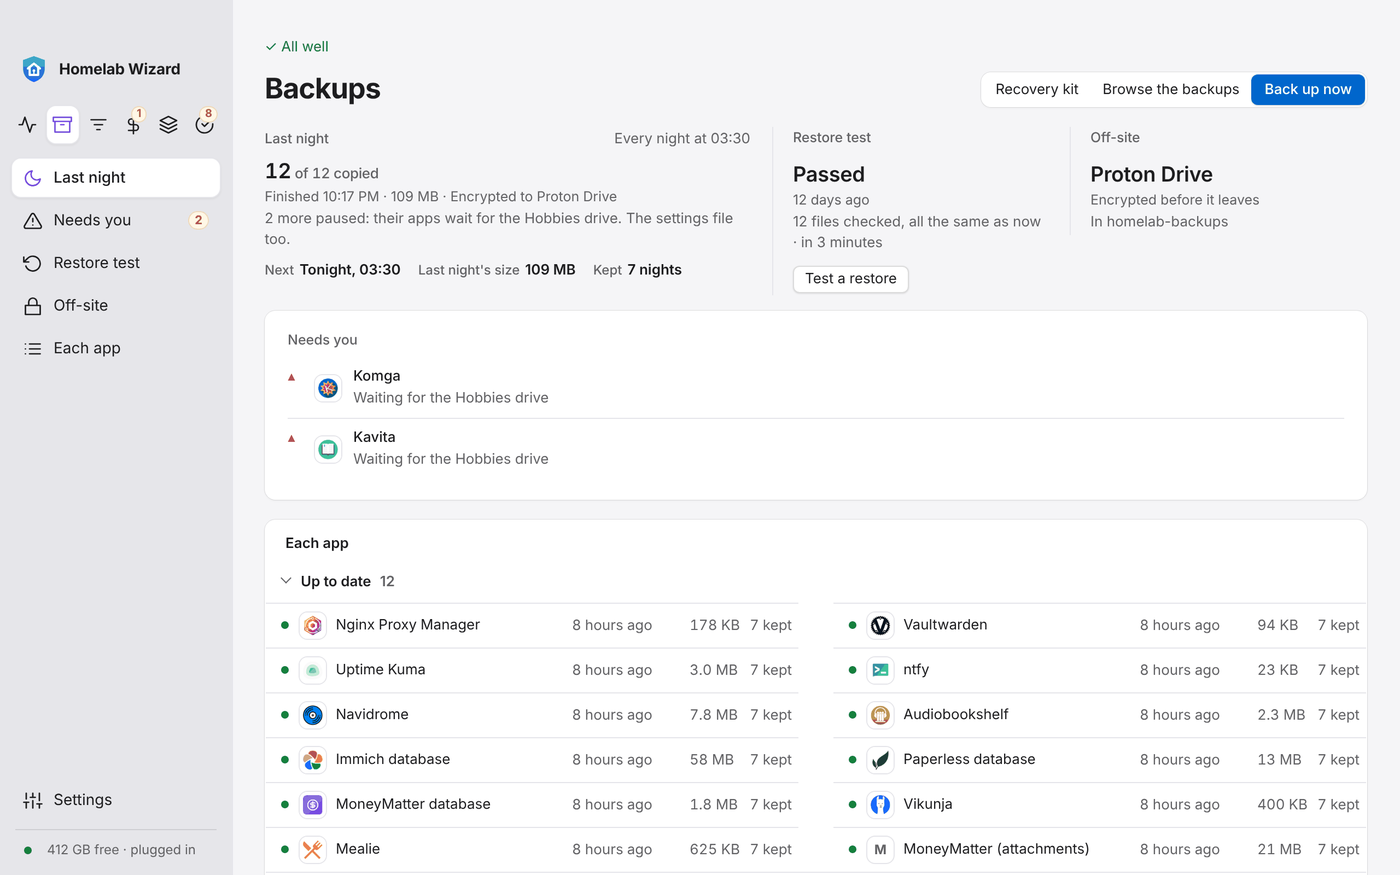
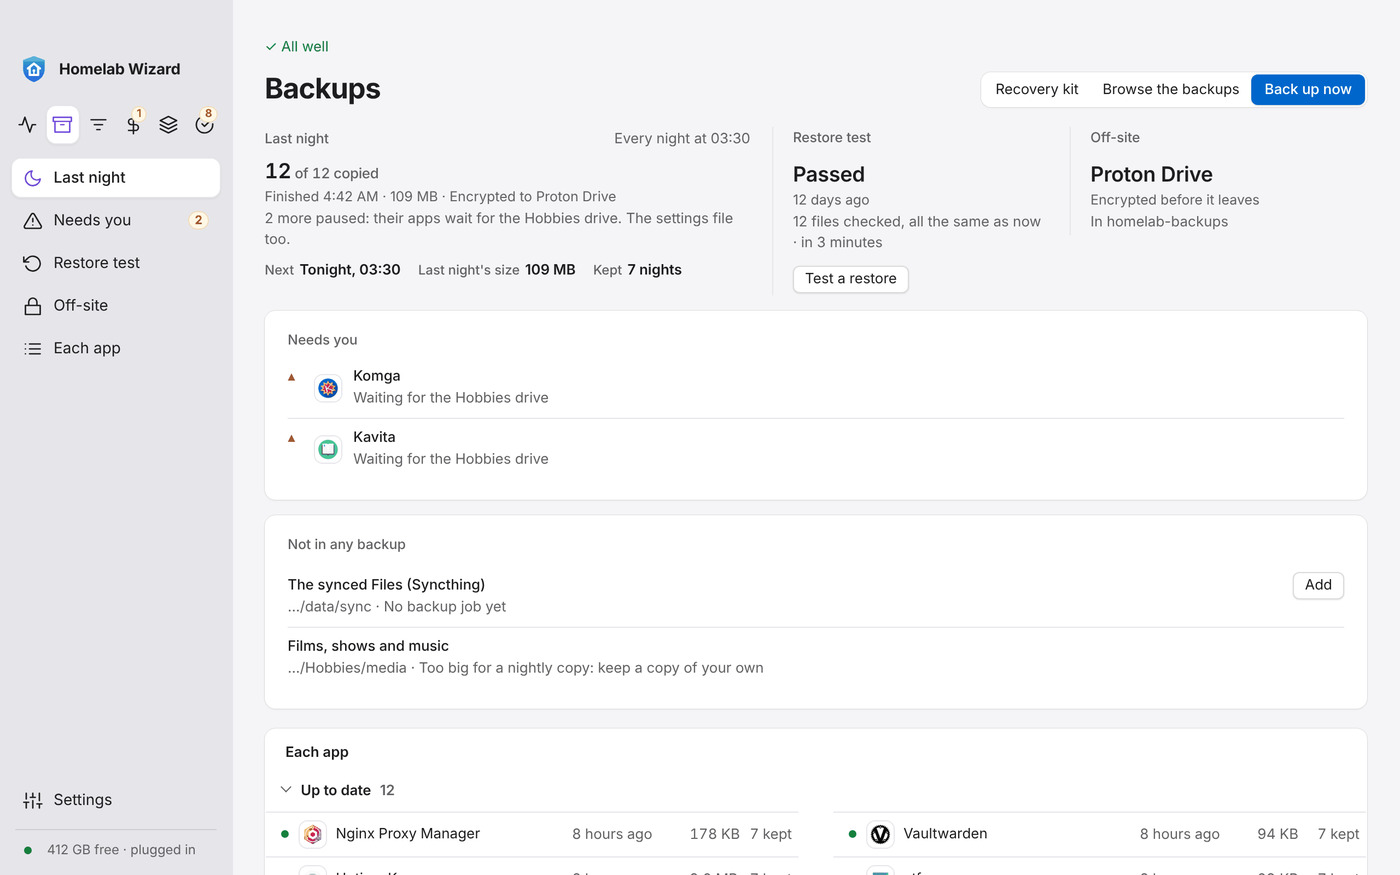
Not in any backup at the top of Backups, after Needs you
Lane Q's D1 card (#865) moves from the foot of the page into Backups' top
(R7): a card of its own after Needs you in BackupTiles (#gapsTile), Add where
a job can copy the folder. Its smoke case checks it's there, across the
width, after Needs you; the empty case that the restore test and off-site
keep even halves. app-backups pictures redrawn.

Claude-Session: https://claude.ai/code/session_019rTjsZkQcBSAgkdBCC89aD

diff --git a/web/dist/app.js b/web/dist/app.js
@@ -7910,7 +7910,7 @@
     ] });
   }
   var drivesOf = (copies) => [...new Set(copies.map((c4) => driveName(c4.waitingFor || "")))].join(" and ");
-  function BackupTiles({ o: o3, os, test, apps: apps2, start }) {
+  function BackupTiles({ o: o3, os, test, apps: apps2, start, gaps, addGap }) {
     const copies = sortedCopies(o3);
     const fresh = copies.filter((c4) => c4.state === "fresh");
     const stale = copies.filter((c4) => c4.state === "stale");
@@ -7993,7 +7993,8 @@
           "In ",
           lastFolder(o3.destination)
         ] }) : os === "linux" ? "Put a backup drive or a synced folder in Settings › Backups go to" : "Put a Proton Drive folder in Settings › Backups go to" })
-      ] })
+      ] }),
+      !!gaps?.length && addGap && /* @__PURE__ */ u3(Card, { kind: "bkcard", id: "gapsTile", children: /* @__PURE__ */ u3(Gaps, { gaps, add: addGap }) })
     ] });
   }
   function copyGroups(o3) {
@@ -8177,20 +8178,18 @@
       /* @__PURE__ */ u3(Rows, { kind: "gaplist", children: gaps.map((g2) => /* @__PURE__ */ u3(
         Row,
         {
-          dot: g2.job ? "warn" : "",
           title: g2.name,
           sub: /* @__PURE__ */ u3(S, { children: [
             /* @__PURE__ */ u3("span", { title: g2.path, children: shortPath(g2.path) }),
             " · ",
             g2.why
           ] }),
-          end: g2.job ? /* @__PURE__ */ u3("button", { type: "button", class: "small primary", onClick: add, children: "Add" }) : void 0
+          end: g2.job ? /* @__PURE__ */ u3("button", { type: "button", class: "small", onClick: add, children: "Add" }) : void 0
         },
         g2.path
       )) })
     ] });
   }
-  var mountGaps = (el3, props) => R(props && /* @__PURE__ */ u3(Gaps, { ...props }), el3);
 
   // web/src/screens/backups.ts
   var backupsData = store(() => go().Backups());
@@ -8204,15 +8203,10 @@
     drawJobs();
   });
   var gapsData = store(async () => await go().BackupGaps() || []);
-  gapsData.watch(() => drawGaps());
+  gapsData.watch(() => redrawBackups());
   function loadBackups() {
     return Promise.all([jobsData.load(), backupsData.load(), gapsData.load().catch(() => {
     })]);
-  }
-  function drawGaps() {
-    const gaps = gapsData.error ? [] : gapsData.value || [];
-    $("gapsCard").hidden = !gaps.length;
-    mountGaps($("gapsCard"), { gaps, add: () => backupTask("duplicati-setup", "Adding the backup job…", "Backup job added", "Adding the job stopped: the log says why") });
   }
   function redrawBackups() {
     if (backupsData.value && !backupsData.error) drawBackups();
@@ -8226,7 +8220,9 @@
     const o3 = backupsData.value;
     const testable2 = (jobsData.value || []).some((j3) => j3.name.toLowerCase() === "homelab appdata" && j3.state !== "never");
     const test = () => backupTask("restore-test", "Testing a restore (a few minutes)…", "Restore test passed", "The restore test failed: the log says why");
-    mountBackupTiles($("backupTiles"), { o: o3, os: osName, test: testable2 ? test : void 0, apps: statusData.value ? statusById : void 0, start: (a3) => appActions.act(a3, "start") });
+    const gaps = gapsData.error ? [] : gapsData.value || [];
+    const addGap = () => backupTask("duplicati-setup", "Adding the backup job…", "Backup job added", "Adding the job stopped: the log says why");
+    mountBackupTiles($("backupTiles"), { o: o3, os: osName, test: testable2 ? test : void 0, apps: statusData.value ? statusById : void 0, start: (a3) => appActions.act(a3, "start"), gaps, addGap });
     mountCopyRows($("backupRows"), { o: o3, apps: statusData.value ? statusById : void 0 });
     backupsNeed = (o3.copies || []).filter((c4) => c4.state === "stale" || c4.state === "paused").length;
     drawBackupsSide();

diff --git a/web/src/backups/Backups.tsx b/web/src/backups/Backups.tsx
@@ -90,14 +90,18 @@ export interface BackupTilesProps {
   /** Each app's state by its ID (Status'), to say why a copy is stale and offer Start. */
   apps?: Record<string, api.AppStatus>;
   start?: (a: api.AppStatus) => void;
+  /** What no job copies (quality-loop D1), and Add, which makes the missing jobs: Not in any backup's card. */
+  gaps?: duplicati.Gap[];
+  addGap?: () => void;
 }
 
 /**
  * The top of Backups as the redesign's picture (R7): Last night, with how many copied, when it finished, what it came
- * to and where it went, then Next, its size and what's kept; Needs you beside it; the restore test and off-site under.
+ * to and where it went, then Next, its size and what's kept; Needs you beside it; the restore test, off-site and Not
+ * in any backup under, a third each (the last only while something is left out).
  * The fourteen nights and each app's nights join when the engine keeps them (quality-loop Q4 (a)).
  */
-export function BackupTiles({ o, os, test, apps, start }: BackupTilesProps) {
+export function BackupTiles({ o, os, test, apps, start, gaps, addGap }: BackupTilesProps) {
   const copies = sortedCopies(o);
   const fresh = copies.filter((c) => c.state === 'fresh');
   const stale = copies.filter((c) => c.state === 'stale');
@@ -140,6 +144,7 @@ export function BackupTiles({ o, os, test, apps, start }: BackupTilesProps) {
         <p class="bksub">{o.destinationOK ? <span title={o.destination}>In {lastFolder(o.destination)}</span>
           : os === 'linux' ? 'Put a backup drive or a synced folder in Settings › Backups go to' : 'Put a Proton Drive folder in Settings › Backups go to'}</p>
       </Card>
+      {!!gaps?.length && addGap && <Card kind="bkcard" id="gapsTile"><Gaps gaps={gaps} add={addGap} /></Card>}
     </>
   );
 }
@@ -314,19 +319,17 @@ export const mountCopyRows = (el: Element, props: { o: backup.Overview; apps?: R
 export const mountVault = (el: Element, props: { o: backup.Overview }) => render(<Vault {...props} />, el);
 export const mountJobs = (el: Element, props: JobsProps) => render(<Jobs {...props} />, el);
 
-/** Not in any backup (quality-loop D1): each folder of the household's that no job copies, where it is, and why;
- * Add for one a job can copy (it makes the homelab's missing jobs). */
+/** Not in any backup (quality-loop D1), as the picture's card beside the restore test and off-site: each folder of
+ * the household's that no job copies, where it is, and why; Add for one a job can copy (it makes the missing jobs). */
 export function Gaps({ gaps, add }: { gaps: duplicati.Gap[]; add: () => void }) {
   if (!gaps.length) return null;
   return (
     <>
       <CardHead title="Not in any backup" />
       <Rows kind="gaplist">
-        {gaps.map((g) => <Row key={g.path} dot={g.job ? 'warn' : ''} title={g.name} sub={<><span title={g.path}>{shortPath(g.path)}</span> · {g.why}</>}
-          end={g.job ? <button type="button" class="small primary" onClick={add}>Add</button> : undefined} />)}
+        {gaps.map((g) => <Row key={g.path} title={g.name} sub={<><span title={g.path}>{shortPath(g.path)}</span> · {g.why}</>}
+          end={g.job ? <button type="button" class="small" onClick={add}>Add</button> : undefined} />)}
       </Rows>
     </>
   );
 }
-
-export const mountGaps = (el: Element, props: { gaps: duplicati.Gap[]; add: () => void } | null) => render(props && <Gaps {...props} />, el);

diff --git a/web/src/screens/backups.ts b/web/src/screens/backups.ts
@@ -1,6 +1,6 @@
 // Backups: the copies and Duplicati's jobs as last read, and the backup
 // screen's commands.
-import { mountBackupTiles, mountCopyRows, mountGaps, mountJobs, mountKopia, mountVault, placeName } from '../backups/Backups';
+import { mountBackupTiles, mountCopyRows, mountJobs, mountKopia, mountVault, placeName } from '../backups/Backups';
 import { jobFinished, jobStarted } from '../job/done';
 import { store } from '../store';
 import { appActions, statusById, statusData } from './status';
@@ -22,14 +22,8 @@ backupsData.watch(() => { drawBackups(); drawJobs(); });
 jobsData.watch(() => { if (backupsData.value && !backupsData.error) drawBackups(); drawJobs(); });
 // What no job copies (Not in any backup), read once the jobs are: none while Duplicati can't be asked.
 export const gapsData = store(async () => (await go().BackupGaps()) || []);
-gapsData.watch(() => drawGaps());
+gapsData.watch(() => redrawBackups());
 export function loadBackups() { return Promise.all([jobsData.load(), backupsData.load(), gapsData.load().catch(() => {})]); }
-
-function drawGaps() {
-  const gaps = gapsData.error ? [] : gapsData.value || [];
-  $('gapsCard').hidden = !gaps.length;
-  mountGaps($('gapsCard'), { gaps, add: () => backupTask('duplicati-setup', 'Adding the backup job…', 'Backup job added', 'Adding the job stopped: the log says why') });
-}
 
 /** Draws Backups again with the apps' state, which says why a stale copy is stale (status.ts calls it as that changes). */
 export function redrawBackups() { if (backupsData.value && !backupsData.error) drawBackups(); }
@@ -40,7 +34,10 @@ function drawBackups() {
   // The restore test needs the Homelab AppData job to have run once.
   const testable = (jobsData.value || []).some((j) => j.name.toLowerCase() === 'homelab appdata' && j.state !== 'never');
   const test = () => backupTask('restore-test', 'Testing a restore (a few minutes)…', 'Restore test passed', 'The restore test failed: the log says why');
-  mountBackupTiles($('backupTiles'), { o, os: osName, test: testable ? test : undefined, apps: statusData.value ? statusById : undefined, start: (a) => appActions.act(a, 'start') });
+  // Not in any backup sits with the restore test and off-site (R7): what no job copies, and Add, which makes the jobs.
+  const gaps = gapsData.error ? [] : gapsData.value || [];
+  const addGap = () => backupTask('duplicati-setup', 'Adding the backup job…', 'Backup job added', 'Adding the job stopped: the log says why');
+  mountBackupTiles($('backupTiles'), { o, os: osName, test: testable ? test : undefined, apps: statusData.value ? statusById : undefined, start: (a) => appActions.act(a, 'start'), gaps, addGap });
   mountCopyRows($('backupRows'), { o, apps: statusData.value ? statusById : undefined });
   backupsNeed = (o.copies || []).filter((c) => c.state === 'stale' || c.state === 'paused').length;
   drawBackupsSide();

diff --git a/web/dist/style.css b/web/dist/style.css
@@ -3397,7 +3397,7 @@ html.os-mac:not(.companion) nav #settingsNav .pagebtn.active .icon { color:var(-
 .tiles > .tile:not(.headline) .label .statusmore { margin-left:0; }
 .tiles > .tile:not(.headline) .sub.statusupdates { justify-content:flex-start; gap:10px; }
 /* Backups' top, as Status': its stats are facts in a row, no cards; Needs you keeps a card while something needs you. */
-#backupTiles > .bkcard:not(.bkneeds), #backupTiles > .bkcard.bkneeds:not(:has(.bkneedlist)) { background:none; border:0; box-shadow:none; border-radius:0; padding:2px 20px 2px 18px; border-left:1px solid var(--line); }
+#backupTiles > .bkcard:not(.bkneeds):where(:not(#gapsTile)), #backupTiles > .bkcard.bkneeds:not(:has(.bkneedlist)) { background:none; border:0; box-shadow:none; border-radius:0; padding:2px 20px 2px 18px; border-left:1px solid var(--line); }
 #backupTiles > .bkcard:first-child { border-left:0; padding-left:0; }
 #backupTiles .bkcard .value { font-size:19px; font-weight:600; letter-spacing:-.01em; }
 #backupTiles .bkcard .value small { font-size:13px; }
@@ -3411,9 +3411,11 @@ html.os-mac:not(.companion) nav #settingsNav .pagebtn.active .icon { color:var(-
 #backupTiles .card-figurevalue { font-size:19px; font-weight:600; }
 #backupTiles .card-figurevalue .value { font-size:inherit; font-weight:inherit; }
 #backupTiles { display:flex; flex-wrap:wrap; align-items:flex-start; gap:14px 0; }
-#backupTiles > .bkcard:not(.bkneeds), #backupTiles > .bkcard.bkneeds:not(:has(.bkneedlist)) { flex:1 1 220px; }
+#backupTiles > .bkcard:not(.bkneeds):where(:not(#gapsTile)), #backupTiles > .bkcard.bkneeds:not(:has(.bkneedlist)) { flex:1 1 220px; }
 #backupTiles > .bkcard.bklast { flex:2 1 360px; }
 #backupTiles > .bkcard.bkneeds:has(.bkneedlist) { flex:1 1 100%; order:9; }
+/* Not in any backup (R7): a card after Needs you, as it is, while something is left out. */
+#backupTiles > .bkcard#gapsTile { flex:1 1 100%; order:10; }
 #backupTiles > .bkcard:not(.bklast):not(.bkneeds) .card-figure { margin-top:6px; }
 #backupTiles #restoreTile .value, #backupTiles #offsiteTile .value, #backupTiles #copiesTile .card-figurevalue > .value { font-size:19px; font-weight:600; }
 #backupTiles .card-figurelabel { font-weight:400; color:var(--muted); }

diff --git a/web/dist/index.html b/web/dist/index.html
@@ -134,7 +134,6 @@
       <div class="row"><h2>Each app</h2></div>
       <table class="grouped copies"><tbody id="backupRows"></tbody></table>
     </div>
-    <div id="gapsCard" class="card alerts" hidden></div>
     <div id="dupCard" class="card alerts"></div>
     <div id="kopiaCard" class="card alerts" hidden></div>
     <div id="moreCard" class="card morerows">

diff --git a/.claude/prompts/redesign-loop.md b/.claude/prompts/redesign-loop.md
@@ -43,7 +43,7 @@ Each is one pull request unless it says it's split. Tick it in the pull request 
 - [x] **R4. Transactions.** `computer-transactions.png`: the table first; the filters in one row of designed dropdowns (a menu button from `parts/`, in place of the browser's `<select>`), the same filters as now; rows grouped by day with each day's total; the payee's logo, the category's coloured tag, the account, and *Linked to* (the planned bill or paycheck a row paid). Budgets and *This month* move to the Budgets page. At 860px and on the phone, the list. The banks' strip ("3 new from your banks…") once M1 or M2 reports what came in. **Done Nov 24 (the table, Budgets' page); left:** the filters as menu buttons from `parts/` (styled `<select>`s today, to keep the keyboard and every test that picks one), the picture's checkboxes column, and the period from the top bar on Transactions. **Nov 24, later:** the picture's line over the table (how many, In, Out; Together with a filter on), and This paycheck and Last paycheck, each with its days, in the date picker (Every month stays the first pick: following the top bar's period by default waits on the owner, who uses Every month today).
 - [x] **R5. The rest of Finances:** Budgets, Bills & paychecks, Calendar, Net worth, Reports and an account's own page, each in the pattern (no picture: follow the pattern and the Dashboard's look, and put the pictures in the pull request). Also: Add a payment's logo picker no longer a Tab stop per logo (usability task 15, item 3: 344 presses of Tab to reach Name). **Split (Nov 24):** the logo picker, done already in #780 (one Tab stop, the arrows inside; its test *Usability task 15, item 3*); Net worth, its three figures in one row (no hole beside What's owed), done; Budgets, This month's figures as the Dashboard's with money out's change on last month in a chip, done; Renewing soon, Budgets and Goals open with the ↗ as every other card does (no See all left), done; Money flow's Top 8 drawn as Transactions' filters, and Paychecks' account tiles keep their figures level when a name wraps, done; an account's own page, its latest transactions one line each with the ↗ (no All of them button), done; Calendar was in the pattern already (its figure, its ↗, the legend), nothing to change. The pictures went to the owner in chat, as a pull request can't carry them from here.
 - [x] **R6. Status and the homelab's sidebar.** Everywhere outside Finances and Tidy Up the sidebar is Status, Backups, Tidy Up, Finances, Choose apps, with Settings at its foot and one line about the computer. Status leads with one headline ("All good" or "1 app needs you"), then the problems each with its fix, then the apps by category as compact rows, then the rest of today's cards, folded or lower. One problem, one badge. Units in one style (GB and MB, a space before). **Split (Nov 24):** (a) the sidebar's order and Settings at its foot, done; (b) Status's headline card with the problems and their fixes, done Nov 24 (in place of the Running and Needs a look tiles; Start, Logs, Its page); (c) the apps by category as compact rows, today's other cards folded or lower, done Nov 24 (each category one row with its first apps' icons and a pill, green "✓ 4 running" or amber "1 of 2 running"; the other cards were already below the list); (d) one badge per problem and the units' style, done Nov 24 (a copy stale only because its app is stopped badges Status, not Backups; sizes were already "182 MB", "3.3 GB" everywhere). **Done after (Nov 24):** the picture's Backups and This Mac cards beside the headline. Backups: last night's copies of those not waiting for a drive, when, and which were skipped, with Backups ›. This Mac: its free space as the figure, power and what runs the apps, the nightly updates with Pause, and anything wrong with the machine (Start for a stopped agent), from Setup's read through `status/machine.ts`. Instead of subscriptions is below the apps. The machine's line above stays (its test, *Status keeps this machine's line*). A phone, which doesn't read the machine, keeps Nightly updates beside Backups. **The owner, Nov 24: logos, not letters, on Status (the computer and the phone):** the iPhone app's AppLogos copied for the web (`apple-client/scripts/web-app-logos.py`), first in an app's mark, then its own icon, then its letter. **Left:** the phone's tab bar of four with Setup's steps on Status (R10). **The owner, Nov 24: the sidebar didn't look like Finances'** (only its order had changed), **and every screen's is to be laid out as Finances'** (the strip of icons, then the screen's own menu from `parts/SideMenu.tsx`, Settings at the foot; `docs/Redesign.md` changed with it; the test *Every screen's sidebar is laid out as Finances'*). The look: now a plain line icon a screen (the Mac's coloured squares gone), the open screen a white pill with its icon in the accent, the count a soft amber dot, no subtitle under the name, and the foot one line on the computer (*412 GB free · plugged in*, its dot the worst of the machine's facts; the system and version its tooltip). Status's subtitle and its machine's line went with it: the This Mac card and the foot say it (the test is now *Status' This Mac card and the sidebar's foot say how the machine is*). Settings' page list joined them as its menu in the sidebar (each page with its icon; the Page drop-down over the page in a small window's rail).
-- [x] **R7. Backups** as `computer-backups.png`: Last night with fourteen nights, Needs you, Restore test, Off-site, Each app. *Not in any backup*, *Get something back* and each app's nights join as lane Q's Q4 ships them. **Split (Nov 24):** (a) Last night (how many copied, when it finished, its size and where it went, a chip for what was skipped; Next, Last night's size, Kept) with Needs you beside it (each skipped copy with its fix, Start when its app is stopped; the paused ones waiting for their drive), done; (b) the restore test and off-site as cards, done; (c) each app compactly, two to a line on a wide window (when, size, how many kept, in columns that line up; a stale or shrunk copy and the groups' headings across the whole line), done; the fourteen nights' squares and each app's dots wait for Q4 (a), as the engine keeps no night's result yet.
+- [x] **R7. Backups** as `computer-backups.png`: Last night with fourteen nights, Needs you, Restore test, Off-site, Each app. *Not in any backup*, *Get something back* and each app's nights join as lane Q's Q4 ships them. **Split (Nov 24):** (a) Last night (how many copied, when it finished, its size and where it went, a chip for what was skipped; Next, Last night's size, Kept) with Needs you beside it (each skipped copy with its fix, Start when its app is stopped; the paused ones waiting for their drive), done; (b) the restore test and off-site as cards, done; (c) each app compactly, two to a line on a wide window (when, size, how many kept, in columns that line up; a stale or shrunk copy and the groups' headings across the whole line), done; the fourteen nights' squares and each app's dots wait for Q4 (a), as the engine keeps no night's result yet. **Nov 25:** *Not in any backup* (lane Q's D1, #865) moved into Backups' top as a card of its own after Needs you (`#gapsTile` in `BackupTiles`, Add where a job can copy it); the top is now a row of facts with the cards under it (since #855), so not the picture's three-across. Q4 (a) has shipped (#871): the fourteen nights and each app's dots are next.
 - [x] **R8. Settings** as `computer-settings.png`: People, Phones, Automatic care, Alerts, Reaching the apps, This Mac; each app's own settings under Advanced. Bank connections joins with M1. **Split (Nov 24):** (a) a General page first, as the picture: People and Phones with their lists and Add a person, Pair a phone; Automatic care's three switches (Update apps every night through Status' pause, Restart an app that stops answering, Undo an update that breaks an app) and Alerts' (On this Mac's screen; Quiet hours) saving at once; Reaching the apps; This Mac's four (Storage, Power, Appearance, Advanced); each opening its page, done; (b) the list on the left as the picture's: General, People, Phones, Automatic care, Alerts, Reaching the apps without a heading; This Mac, Storage, Appearance, Tidy Up under This Mac; each app's own settings, folded by category, under Advanced. Automatic care (the updates' and self-repair's settings) and Alerts (Notifications renamed) are pages; Domain is Reaching the apps. Done, from the .env's sections without changing them. Bank connections joins with M1.
 - [x] **R9. Tidy Up** as `computer-tidy.png`: its sidebar (Overview, each library, the drives), Today with Undo, Needs a look, Needs your OK (the next first; a step that throws things away never gets the main button), the drive, Your libraries, Recently done, Genres. Watched folders and when to tidy behind the settings button; a library's step-by-step clean-up inside its page. **Split (Nov 24):** (a) the header's Folders and when… (Drop anything here, behind it) and Tidy up now; What I did today two-thirds wide with Needs a look beside it, its buttons under each thing and a count in its heading, done; (b) its sidebar (Overview with how many need a look, each library, the drive with its free space) in place of the tabs, the homelab's screens a strip of icons over it as on Finances, done (the tabs stay for a screen without the sidebar); (c) Today as the picture's: how many downloads it filed since midnight as a figure over each thing with its time and Undo; Today and Needs a look in the same two columns as Needs your OK and the drive under them, done. The picture's *Nothing lost* chip and *1 still downloading* wait for the engine to say so.
 - [x] **R10. The phone's page.** Each redesigned screen at 390px and 320px with big text against `phone-*.png`: one column, the same cards, four tabs (Setup's unfinished steps on Status), one badge per problem. A partner's three tabs (Finances, Apps, Settings) once M5 ships. **Nov 24 (part one):** Backups on the phone as `phone-backups.png`: Next, the size and what's kept one line under Last night, the restore test and off-site side by side; the phone's cases (280) pass at 390px, 320px and with big text. Status, Settings and Finances checked against their pictures: one column, four tabs where Finances is shared, Setup not a tab; the rest is the iPhone app's (P1). **Nov 24 (part two):** Setup's unfinished steps on the owner's phone's Status (*Finish setting up*, how many done, the next three, Continue to Setup), Setup being off its tab bar; not on the computer, whose sidebar has Setup. The partner's three tabs wait for M5.

diff --git a/CHANGELOG.md b/CHANGELOG.md
@@ -41,6 +41,7 @@ Notes are grouped as **New**, **Improved**, and **Fixed**, one line each, in pla
 - **Sort Transactions on the Homelab app:** on the iPhone and iPad, **Sort** beside Filter sorts Transactions by the date, payee, category, account or amount, either way, as the computer's column headers do, and each device remembers its choice. By anything but the date it's one list, each row with its day, and **Newest First** goes back. A long list shows 200 rows at a time, with **Show 200 More**.
 - **Sort these on the Homelab app's Transactions:** as on the computer, the top of Transactions on the iPhone and iPad lists what looks like a planned payment, to **Link** or say **Not It**, and money out of one of your accounts with the same into another, to **Join** as one transfer or say **Not One Transfer**. Each has Undo, and works away from home too.
 <!-- Everything else (the other lanes): add a line just below this one. -->
+- **Not in any backup at the top of Backups:** on the computer, the folders no backup copies (with **Add** where a job can copy them) are a card of their own right after Needs you, with the night's facts, in place of a card at the foot of the page.
 - **Windows: a save no longer fails while another program reads the file:** the homelab's records and logs are saved by renaming a new copy in, which Windows refuses for a moment while the file is open elsewhere. The save waited only on *access is denied*; it now also waits on *in use by another process* and *delete pending*, as reading already did (the occasional *being used by another process* when two log rotations met).
 - **The backup keeps each night's result:** every nightly backup records, for each app it copies, whether it was copied, failed, skipped because the app was stopped or runs outside the homelab, or had no database yet, and keeps the last fourteen nights (`data/backup-nights.json`), for Backups to show which nights each app was missed.
 - **No boxes around a single figure:** Status' Backups and This Mac, Backups' Last night, Restore test and Off-site, an app's page's four facts, Setup's This Mac row, Finances' Checking now / After payday / Bills left and Income / Spending, and Tidy Up's steps are facts in a row parted by a hairline, not cards. **All good** on Status is one line under the title; a card stays for what needs you (an app down, a copy out of date).
